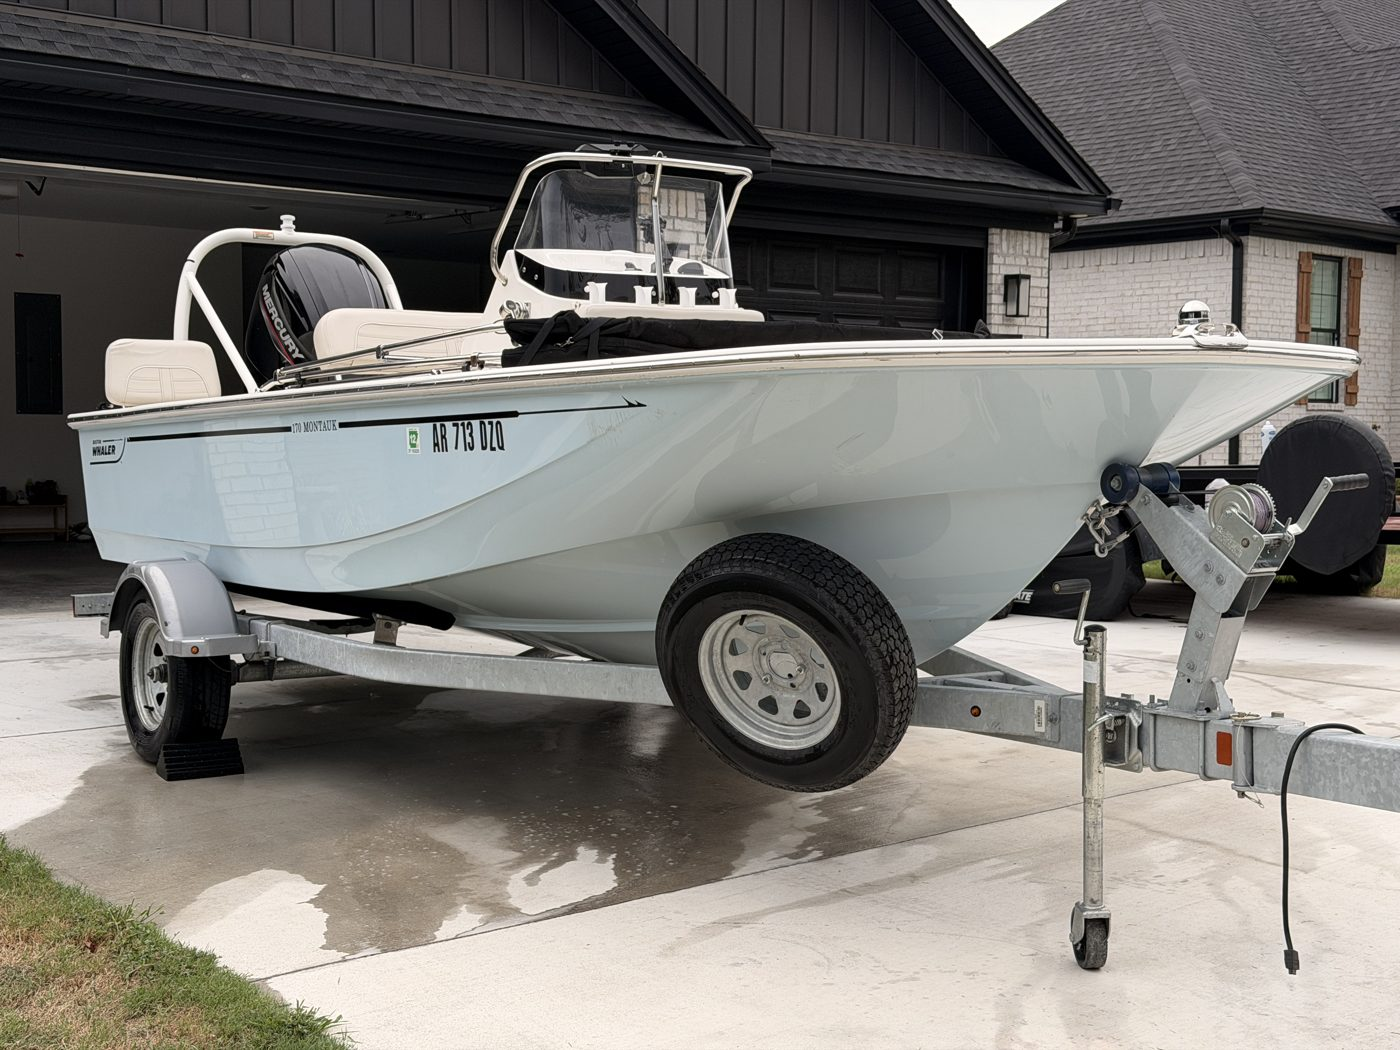
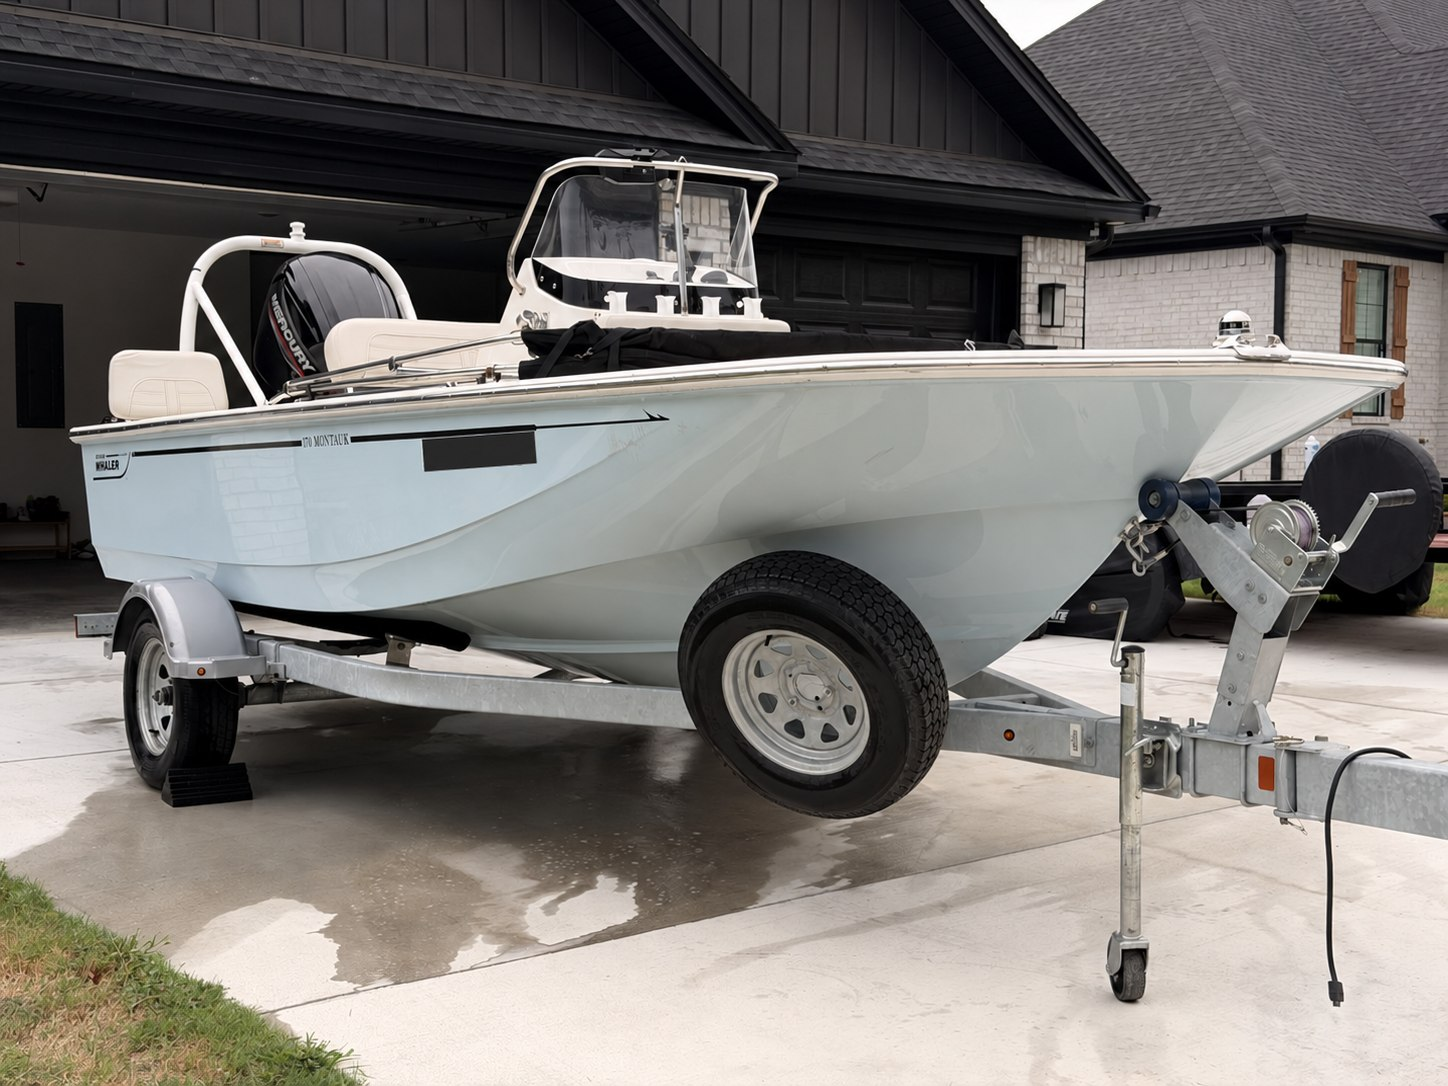
Cover boat registration numbers in project gallery

diff --git a/boat-detailing-little-rock-ar/index.html b/boat-detailing-little-rock-ar/index.html
@@ -170,8 +170,8 @@
     </div>
     <h3>Hull: Before and After</h3>
     <div class="boat-project-grid">
-      <figure><img src="/boat-whaler-hull-before.jpg" alt="Boston Whaler 170 Montauk before detailing with brown algae buildup along the lower hull" width="1400" height="1050" loading="lazy"><figcaption><strong>Before</strong> &mdash; Buildup along the bottom of the hull</figcaption></figure>
-      <figure><img src="/boat-whaler-hull-after.jpg" alt="Boston Whaler 170 Montauk after Tuff Bros removed the algae from the hull" width="1400" height="1050" loading="lazy"><figcaption><strong>After</strong> &mdash; Cleaned hull, ready for boat season</figcaption></figure>
+      <figure><img src="/boat-whaler-hull-before.jpg?v=privacy-2" alt="Boston Whaler 170 Montauk before detailing with brown algae buildup along the lower hull" width="1448" height="1086" loading="lazy"><figcaption><strong>Before</strong> &mdash; Buildup along the bottom of the hull</figcaption></figure>
+      <figure><img src="/boat-whaler-hull-after.jpg?v=privacy-2" alt="Boston Whaler 170 Montauk after Tuff Bros removed the algae from the hull" width="1448" height="1086" loading="lazy"><figcaption><strong>After</strong> &mdash; Cleaned hull, ready for boat season</figcaption></figure>
     </div>
     <h3>The Details Up Close</h3>
     <div class="boat-project-grid">
